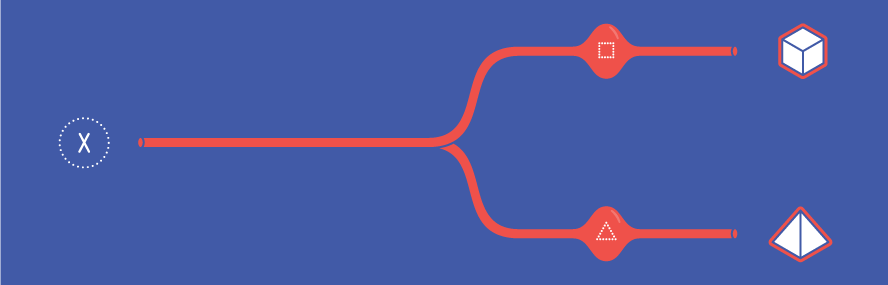
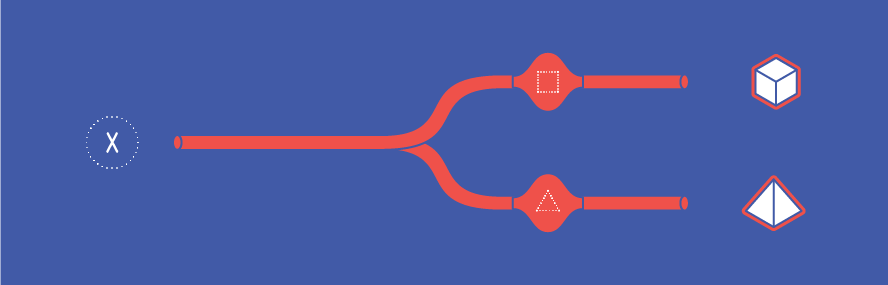
cond

Changed region(s): [[0.0608, 0.0842, 0.9426, 0.9263], [0.0912, 0.5614, 0.1216, 0.5895]]

diff --git a/README.md b/README.md
@@ -175,7 +175,7 @@ Dibuja 100 círculos de tamaño aleatorio en una ventana de 500x500 píxeles.
 
 ---
 
-![if](https://github.com/javierarce/processing/blob/master/img/conditional.png?v=5)
+![if](https://github.com/javierarce/processing/blob/master/img/conditional.png?v=6)
 
 ### Condicionales (`if`)
 
